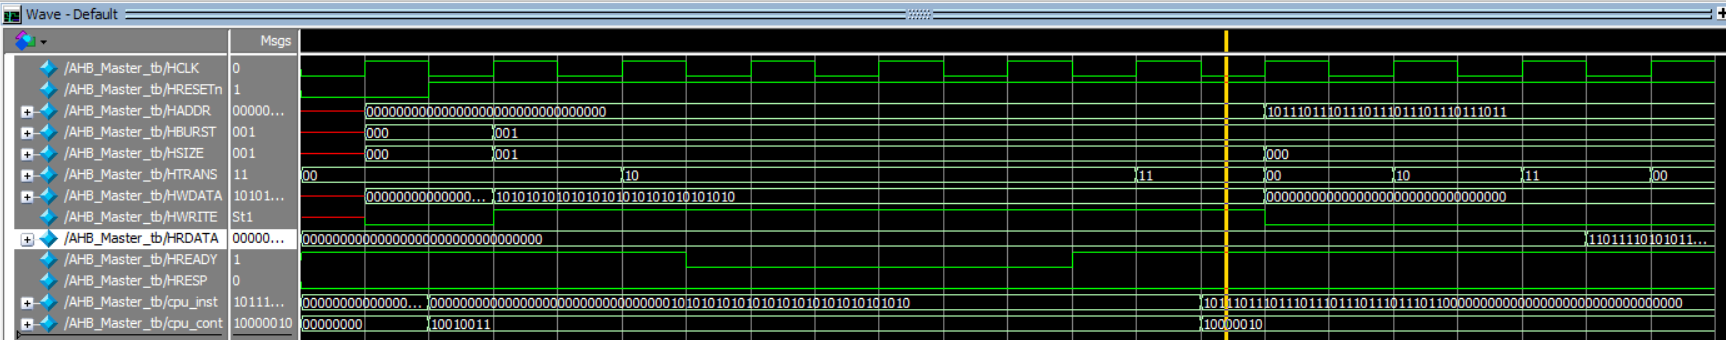
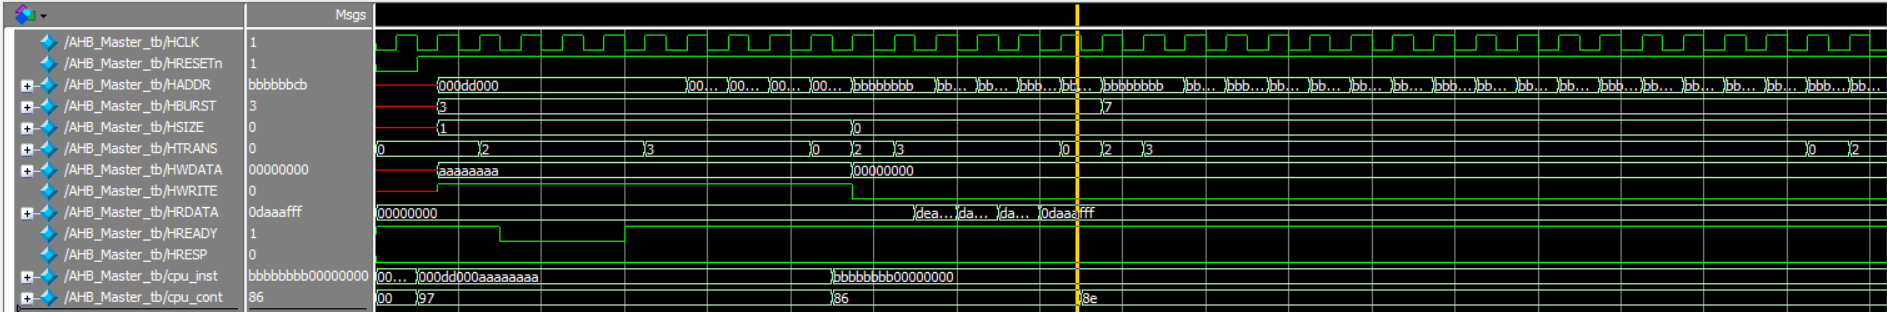
update version 2

diff --git a/readme.md b/readme.md
@@ -71,7 +71,6 @@ The module is written in Verilog HDL, implementing AHB Master logic as per the A
 
 ### Code Snippet:
 ```verilog
-
 always @(posedge HCLK or negedge HRESETn) begin
     if (!HRESETn)
     begin   
@@ -81,6 +80,12 @@ always @(posedge HCLK or negedge HRESETn) begin
     begin
         case (HTRANS)
             IDLE:begin
+                HADDR <= cpu_inst[63:32];
+                HWDATA <= cpu_inst[31:0];
+                HSIZE <= cpu_cont[6:4];  
+                HWRITE <= cpu_cont[0];   
+                HBURST <= cpu_cont[3:1];
+                work <= cpu_cont[7];
                 if (HREADY && work) begin
                     HTRANS <= NONSEQ;
                     burst_counter <= 0;        
@@ -96,7 +101,6 @@ always @(posedge HCLK or negedge HRESETn) begin
                     if (!work)
                     HTRANS <= BUSY;
                     else if (HBURST) begin
-                        // slave will increment the adress " HADDR <= HADDR + (4 << HSIZE); "
                         burst_counter <= burst_counter + 1;
                         HTRANS <= SEQ;
                     end else begin
@@ -106,13 +110,31 @@ always @(posedge HCLK or negedge HRESETn) begin
             end
             SEQ:begin
                 if (HREADY) begin
-                        // slave will increment the adress " HADDR <= HADDR + (4 << HSIZE); "
+                    HADDR <= HADDR + (4 << HSIZE); 
                         burst_counter <= burst_counter + 1;
                     if (!work)
                     HTRANS <= BUSY;
-                    else if (burst_counter < HBURST)
+                    else if(HBURST == 3'b001 && burst_counter < 8'b11111111)
                         HTRANS <= SEQ;
-                
+
+                    else if(HBURST == 3'b010 && burst_counter < 4)
+                            HTRANS <= SEQ;
+
+                    else if(HBURST == 3'b011 && burst_counter < 4)
+                        HTRANS <= SEQ;
+
+                    else if(HBURST == 3'b100 && burst_counter < 8)
+                            HTRANS <= SEQ;
+
+                    else if(HBURST == 3'b101 && burst_counter < 8)
+                            HTRANS <= SEQ;
+
+                    else if(HBURST == 3'b110 && burst_counter < 16)
+                            HTRANS <= SEQ;
+
+                    else if(HBURST == 3'b111 && burst_counter < 16)
+                            HTRANS <= SEQ; 
+
                         else begin
                         HTRANS <= IDLE;
                     end
@@ -210,7 +232,7 @@ Verify a read operation with a single transfer type.
 
 - **HCLK**: The main clock signal that drives the timing of the AHB Master module.
 - **HRESETn**: An active-low reset signal that initializes or resets the state of the AHB Master module.
-- **HADDR**: Carries the memory address for read/write transactions initiated by the master.
+- **HADDR**: Carries the memory address for read/write transactions initiated by the master and the firet 2 bits select the slave.
 - **HBURST**: Specifies the type of burst transaction, such as single, incremental (INCR), or wrapped (WRAP).
 - **HSIZE**: Indicates the size of the data for the current transaction (e.g., 4 bytes for 32-bit data).
 - **HTRANS**: Defines the type of transfer, including IDLE, BUSY, NON-SEQ (non-sequential), and SEQ (sequential).
@@ -225,7 +247,9 @@ Verify a read operation with a single transfer type.
 ![Alt diagram](master.png)
 
 ---
+
 ## Downloading & Runing the Simulation
+
 ### Downloading the Repository
  To download the testbench and associated files, follow these steps:
 
